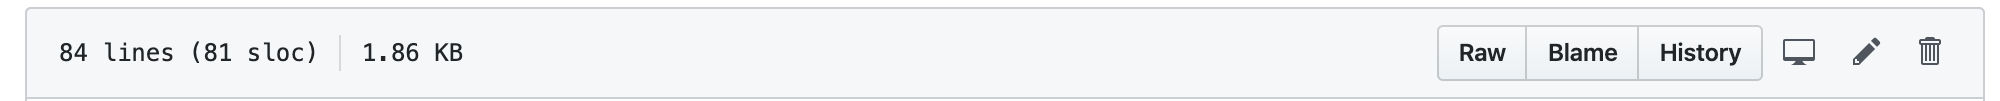
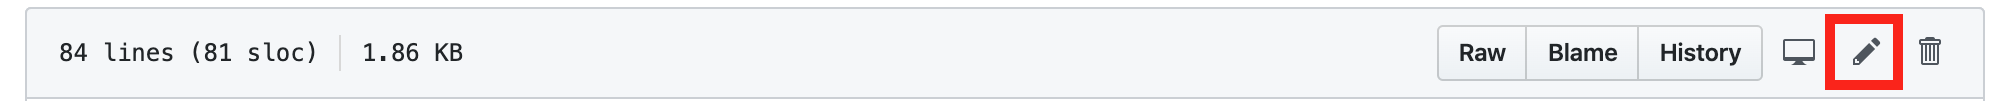
Edits to rolloutFeature.md

Changed region(s): [[0.899, 0.1188, 0.961, 0.8911]]

diff --git a/labs/rolloutFeature/rolloutFeature.md b/labs/rolloutFeature/rolloutFeature.md
@@ -1,14 +1,19 @@
 # <img src="images/Rollout-blue.svg" alt="CloudBees Rollout Logo" width="40" align="top"> Gating Code with a CloudBees Feature Flag
 
+In this lab, you will create a sidebar component and add it to the microblog. Since this component is *experimental*, we can gate it behind our previosuly created feature flag (`sidebar: new Rox.flag(false)`) that will initially hide it. Then using Rollout's dashboard, we will remotely configure the value of the flag, and will thus enable the sidebar.
+
 ### Adding a Sidebar to the Microblog
+
 1. In Github, navigate to the root directory of the microblog-frontend repository.
 2. Click `Branch: initRollout`
-3. Type `newSidebar` then click "Create branch: newSidebar from initRollout" to finish creating a new branch.
-4. Ensure you are within the newSidebar branch, then navigate to the `src/views/Posts.vue` file by clicking the `src`, `views`, and `Posts.vue` links, consecutively.
+3. Type `newSidebar` then click **Create branch: newSidebar from initRollout** to finish creating a new branch.
+4. Ensure you are within the newSidebar branch, then navigate to the `src/views/Posts.vue` file.
+
 <p><img src="images/srcViewsPost.gif" />
 
 5. Click the pencil icon to edit the file.
 TODO: ADD RED CALLOUT BOX TO BELOW PNG
+
 <p><img src="images/PostsVuePencil.png" />
 
 6. In order to reference our previously created feature flag, we must import the `Flags` constant from the `flags.js` file. On line 28, add the following statement:
@@ -27,11 +32,11 @@ data: function () {
   }
 },
 ```
-8. Now we're going to add a sidebar component that is gated behind our `sidebar` feature flag. In line 6, make the following edits:
+8. Now we're going to add a text component that will only be displayed when `show_sidebar` is evaluated to `true`. In line 6, make the following edits:
 ```html
  <h1 class="title">Posts <span v-if="show_sidebar"> - Show sidebar!</span></h1>
 ```
-9. The new sidebar should only be shown if the `show_sidebar` function (or the `Flags.sidebar.isEnabled` call) returns `true`. To implement the new sidebar functionality gated behind this if logic, add a new line after lines 7 and insert the following code:
+9. The new sidebar should only be shown if the `show_sidebar` function (or the `Flags.sidebar.isEnabled` call) returns `true`. To implement the new sidebar functionality gated behind this if logic, add a new line after line 7 and insert the following code:
 ```html
   <div class="columns" v-if="show_sidebar">
     <div class="box column is-three-quarters">
@@ -72,14 +77,135 @@ data: function () {
     </div>
   </div>
 ```
-11. Create a commit message and select "Commit directly to the `newSidebar` branch" radio button.
-12. Complete this lab by clicking "Commit new file."
+11. The final The final `Post.vue` should be
+<details><summary>this:</summary>
 
+```html
+<template>
+  <div class="container">
+    <hr class="hr is-invisible">
+    <div class="box">
 
-* TODO:
-MAKE SURE PIPELINE RUNS WITH NEW ROLLOUT FEATURE FLAGS AND COMPONENT
-CHECK NEW MICROBLOG TO ENSURE SIDEBAR DOES NOT SHOW UP
+      <h1 class="title">Posts <span v-if="show_sidebar"> - Show sidebar!</span></h1>
+      <hr class="hr">
+      <div class="columns" v-if="show_sidebar">
+        <div class="box column is-three-quarters">
+          <div class="box">
+            <b-field label="What's going on today?"
+                     class="is-marginless"
+            >
+              <b-input v-model="message" maxlength="140" type="textarea"/>
+            </b-field>
+            <b-button type="is-dark" @click="addPost">Submit</b-button>
+          </div>
+          <hr class="hr">
+          <Post v-for="post in posts" :key="post.id" :post="post"/>
+        </div>
+        <div class="box column">
+          <h3 class="is-size-4 has-text-weight-bold">Users list</h3>
+          <ul>
+            <li v-for="user in users" :key="user.url">
+              <a :href="user.url">{{user.username}}</a>
+            </li>
+          </ul>
+        </div>
+      </div>
 
-* LATER
-* ROX DEVS for LOCAL DEVELOPMENT
-* SHOULD WE CHANGE sidebar flag value to default to true, so that when changes are made, any errors are readily apparent?
+      <div class="box" v-else>
+        <div class="box">
+          <b-field label="What's going on today?"
+                   class="is-marginless"
+          >
+            <b-input v-model="message" maxlength="140" type="textarea"/>
+          </b-field>
+          <b-button type="is-dark" @click="addPost">Submit</b-button>
+        </div>
+        <hr class="hr">
+        <Post v-for="post in posts" :key="post.id" :post="post"/>
+      </div>
+    </div>
+  </div>
+</template>
+
+<script>
+import Post from '@/components/Post.vue'
+import axios from 'axios'
+import { mapGetters, mapState } from 'vuex'
+import { Flags } from '../utils/flags'
+
+export default {
+  name: 'posts',
+  components: {
+    Post
+  },
+  data: function () {
+    return {
+      message: '',
+      posts: [],
+      users: [],
+      errors: [],
+      show_sidebar: Flags.sidebar.isEnabled()
+    }
+  },
+  created () {
+    this.getPosts()
+    this.getUsers()
+  },
+  computed: {
+    ...mapGetters([
+      'isLoggedIn'
+    ]),
+    ...mapState([
+      'user'
+    ])
+  },
+  methods: {
+    getPosts: function () {
+      axios.get(`${process.env.VUE_APP_BASE_API_URL}/posts/`)
+        .then(response => {
+          this.posts = response.data
+        })
+        .catch(error => {
+          this.errors.push(error)
+        })
+    },
+    getUsers: function () {
+      axios.get(`${process.env.VUE_APP_BASE_API_URL}/users/`)
+        .then(response => {
+          this.users = response.data
+        })
+        .catch(error => {
+          this.errors.push(error)
+        })
+    },
+    addPost: function () {
+      if (this.message.length > 1 && this.message.length <= 140) {
+        axios.post(`${process.env.VUE_APP_BASE_API_URL}/posts/`, {
+          user: this.user.url,
+          message: this.message
+        }, {
+          headers: {
+            'Authorization': `Bearer ${localStorage.getItem('token')}`,
+            'Content-Type': 'application/json'
+          }
+        })
+          .then(() => {
+            this.getPosts()
+            this.message = ''
+          })
+          .catch(e => {
+            this.errors.push(e)
+          })
+      }
+    }
+  }
+}
+</script>
+```
+</details>
+
+12. Create a commit message and select **Commit directly to the `newSidebar` branch** radio button.
+13. Click **Commit new file**
+14. **For instructor led workshops please return to the [workshop slides](https://cloudbees-days.github.io/core-rollout-flow-workshop/rollout/#1)**
+
+Otherwise, you may proceed to the next lab: [**Controling the Value of a Flag with CloudBees Rollout**](../rolloutExperiment/rolloutExperiment.md) or choose another lab on the [main page](../../README.md#workshop-labs).

diff --git a/labs/rolloutSetup/rolloutSetup.md b/labs/rolloutSetup/rolloutSetup.md
@@ -16,12 +16,15 @@ In this lab, you will set up a CloudBees Rollout account and use it to manage fe
 1. In Github, navigate to the microblog-frontend repository previously forked to the organization.
 2. Click `Branch: master`
 3. Type `initRollout` then click **"Create branch: initRollout from master"** to finish creating a new branch.
+
 <p><img src="images/initRolloutBranch.gif" />
 
 4. Ensure you are within the initRollout branch, then click the `src` folder. On the resulting page, click the **Create new file** button.
+
 <p><img src="images/srcCreateNewFile.png" />
 
 5. In the textbox next to `microblog-frontend/src/`, type: `utils/flag.js` and press return (on the keyboard).
+
 <p><img src="images/utilsFlagJS.gif" />
 
 6. In this file, you need to import the Rollout library, create a feature flag for a sidebar element, then setup the connection to the dashboard using the `<ROLLOUT_ENV_KEY>`. To do this, type the follow snippet within the Github code editor. Make sure that you replace `<ROLLOUT_ENV_KEY>` with your unique key copied earlier.
@@ -37,6 +40,7 @@ Rox.register('default', Flags);
 Rox.setup("<ROLLOUT_ENV_KEY>");
 ```
 7. Create a commit message (e.g. Create flag.js) and select **Commit directly to the `initRollout` branch** radio button. The file and its directory path should look similar to the picture below. Then click **Commit new file**.
+
 <p><img src="images/flagJSCommit.png" />
 
 8. **For instructor led workshops please return to the [workshop slides](https://cloudbees-days.github.io/core-rollout-flow-workshop/rollout/#1).**
